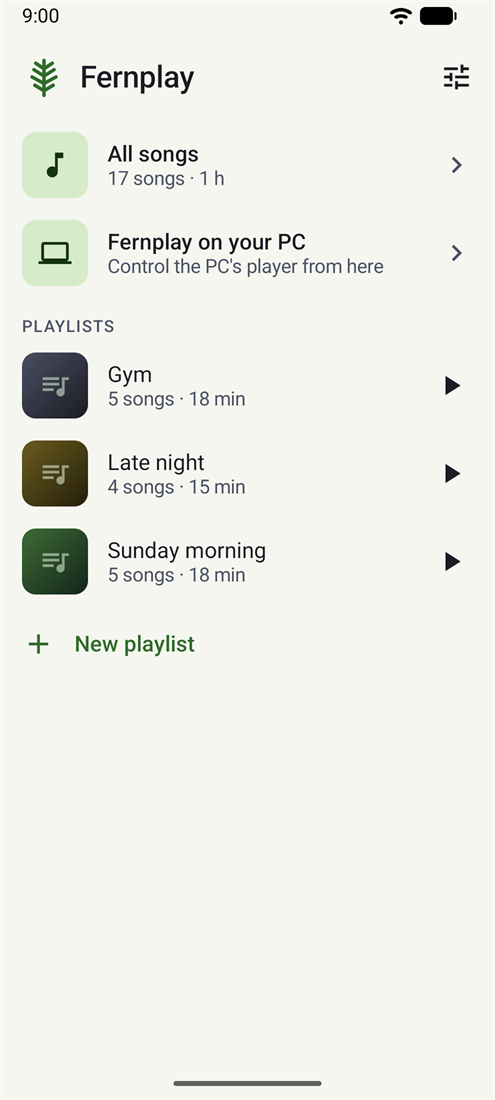
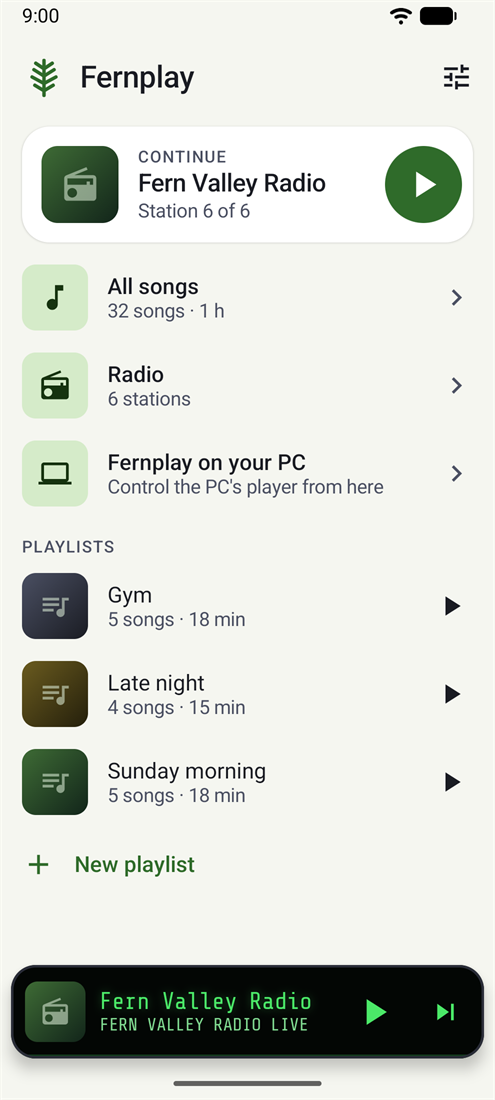
README: Home screenshot with Radio
The Home picture predated radio. New one in the light theme at the same
size (495x1100): a Continue card for a radio station, All songs, Radio
(station count only), Fernplay on your PC and the three playlists.
Invented station, song and playlist names; status bar in demo mode.

diff --git a/README.md b/README.md
@@ -3,7 +3,7 @@
 A simple music player for Android: open it, pick a track, a playlist or a radio station, play.
 
 <p>
-  <img src="docs/screenshots/home.png" width="160" alt="Home in the light theme: All songs, Fernplay on your PC, and three playlists with a play button each">
+  <img src="docs/screenshots/home.png" width="160" alt="Home in the light theme: a Continue card for a radio station, All songs, Radio, Fernplay on your PC, and three playlists with a play button each">
   <img src="docs/screenshots/now-playing.png" width="160" alt="Now Playing in the dark theme: a green LCD with title, artist and time, seek bar, transport buttons, Repeat List, Queue and EQ">
   <img src="docs/screenshots/radio.png" width="160" alt="A radio station playing in the dark theme: the green LCD shows the live song, its artist and the station, the time since it started and LIVE">
 </p>
